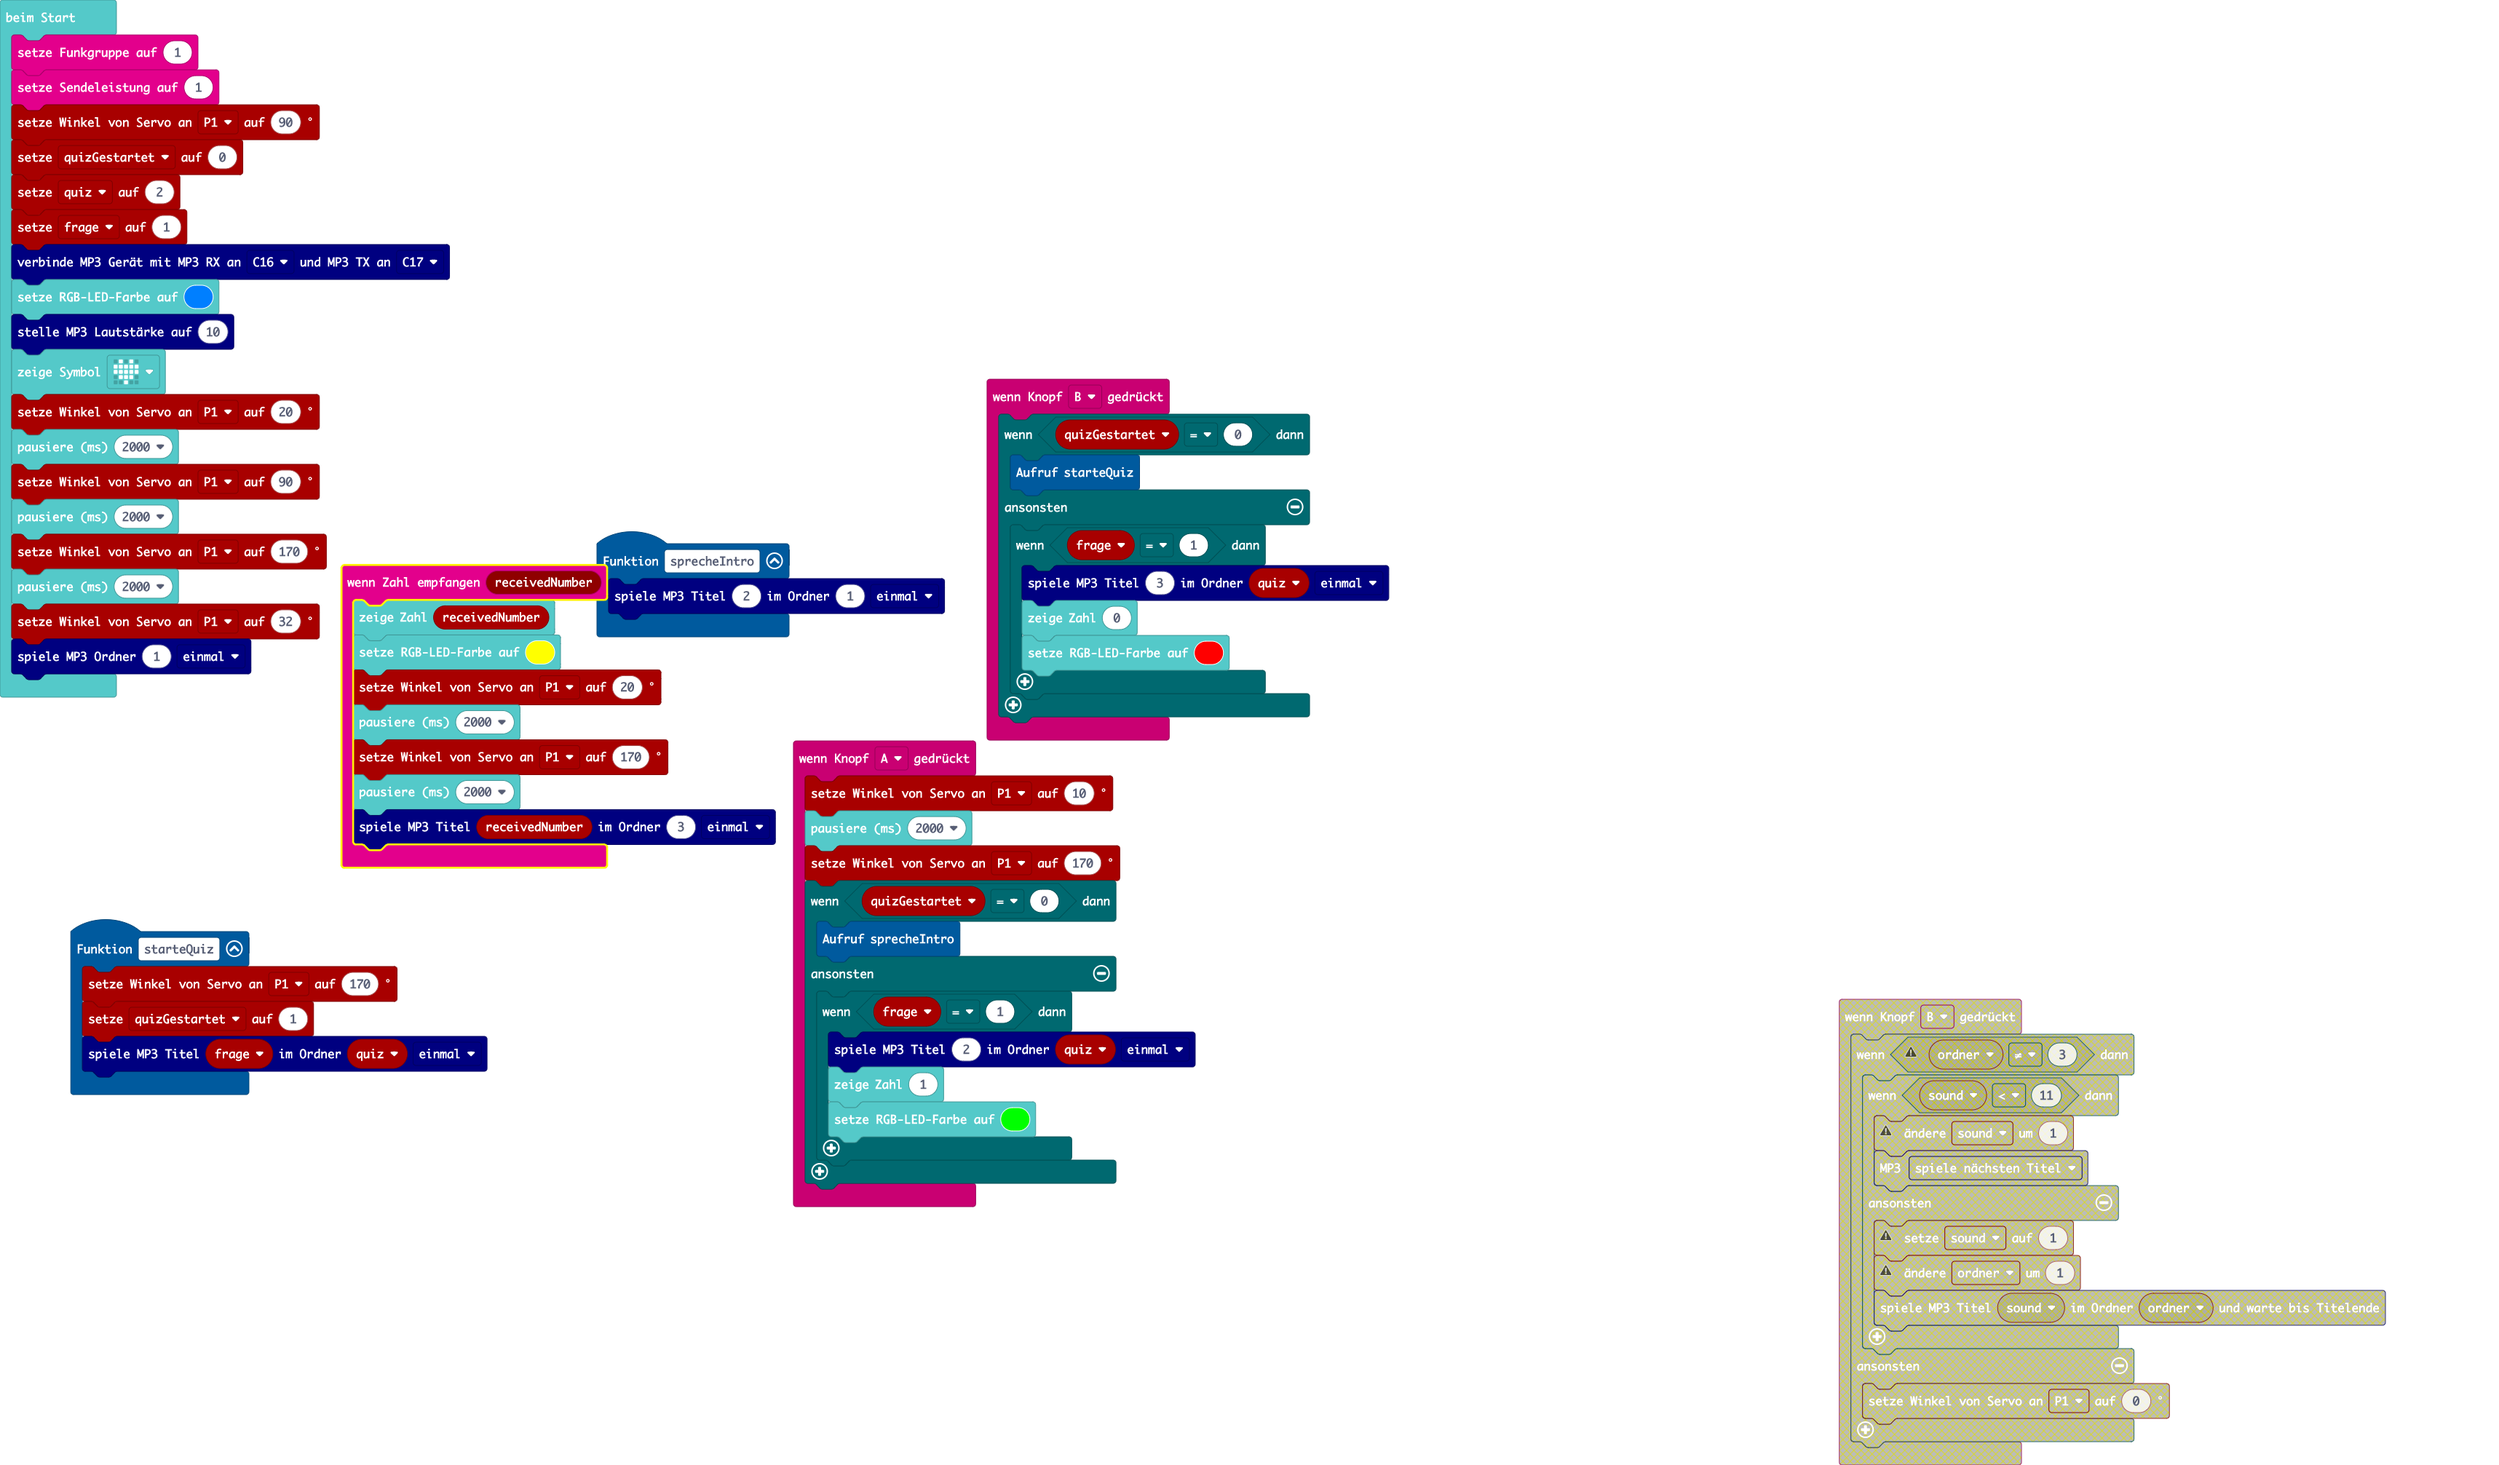
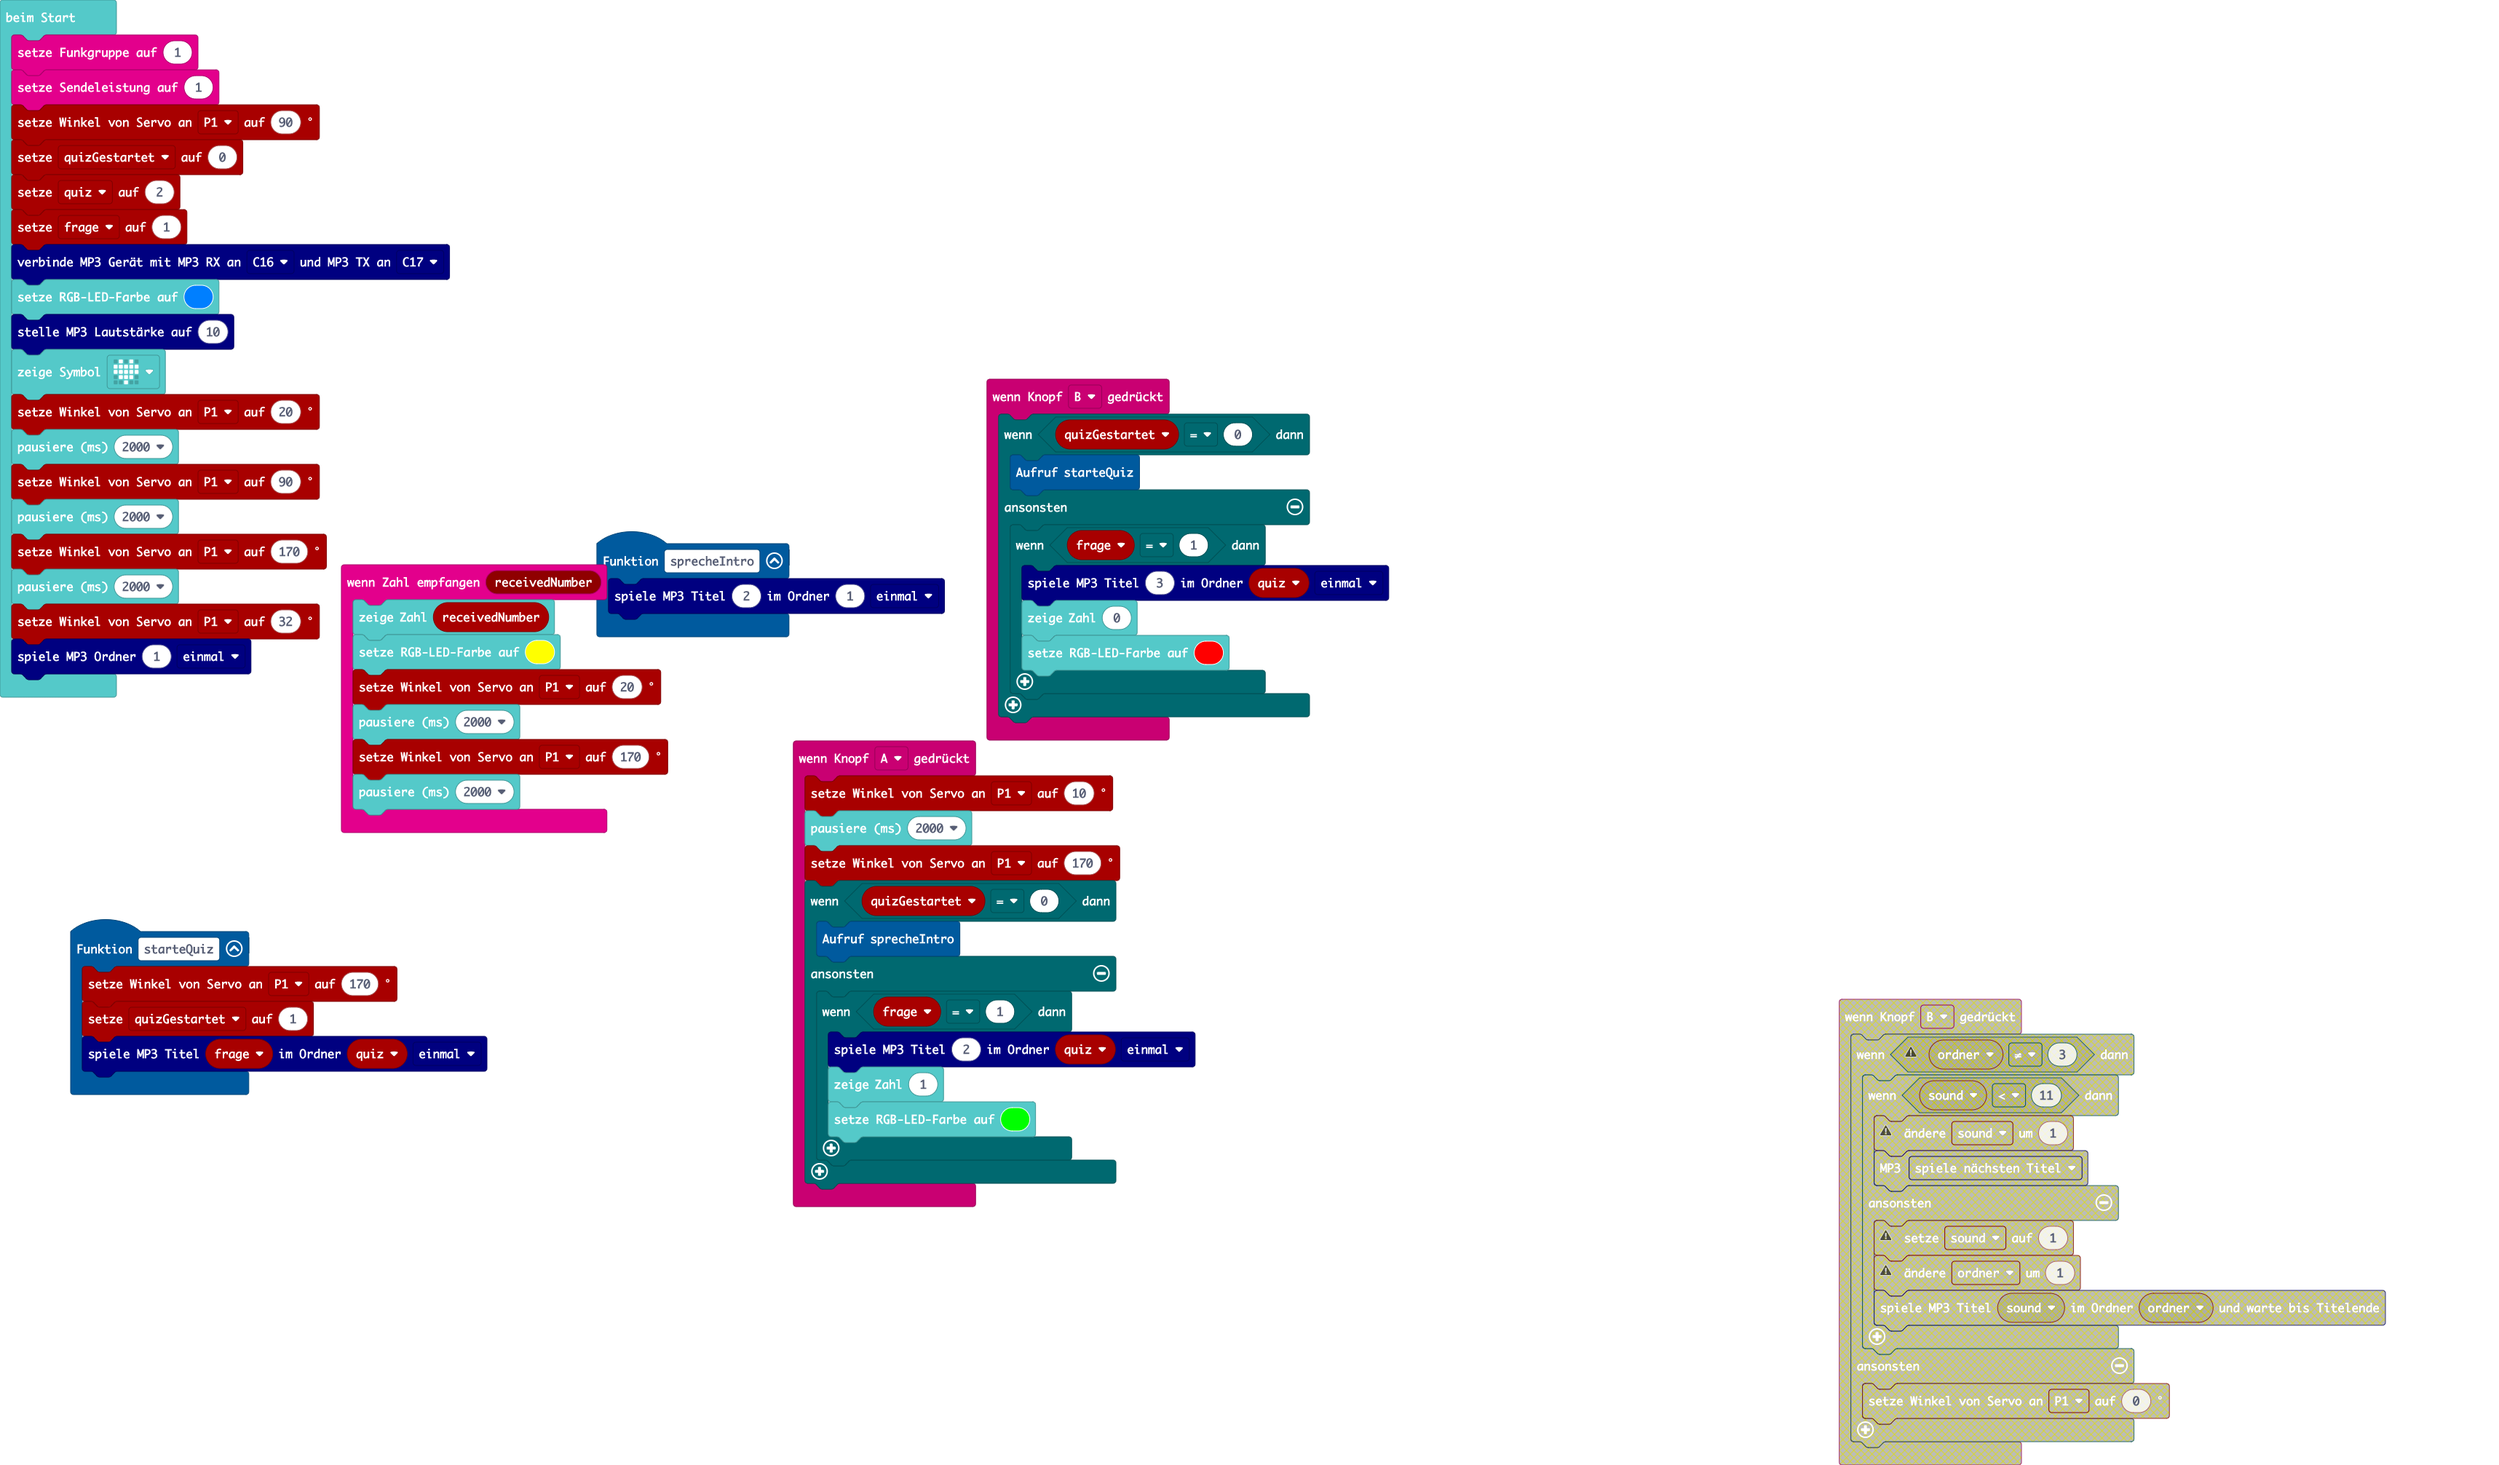
Aktualisiere main.blocks, main.ts

Changed region(s): [[0.1247, 0.3696, 0.3117, 0.616]]

diff --git a/main.ts b/main.ts
@@ -10,7 +10,6 @@ radio.onReceivedNumber(function (receivedNumber) {
     basic.pause(2000)
     pins.servoWritePin(AnalogPin.P1, 170)
     basic.pause(2000)
-    serialmp3.playMp3TrackFromFolder(receivedNumber, 3, Mp3Repeat.No)
 })
 input.onButtonPressed(Button.A, function () {
     pins.servoWritePin(AnalogPin.P1, 10)
